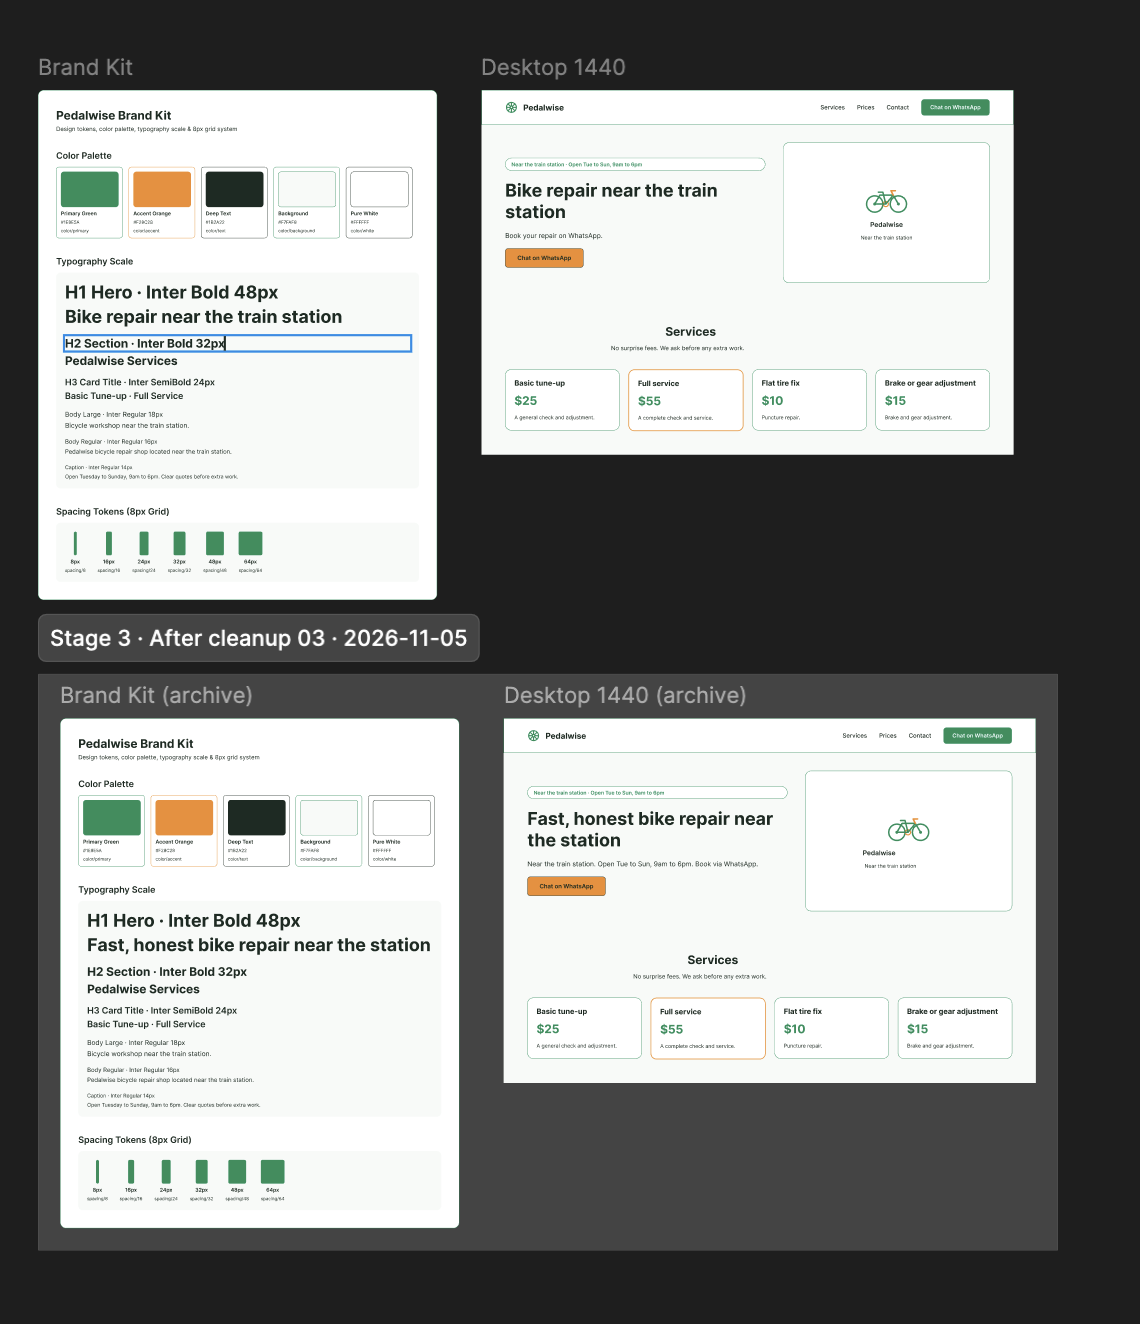
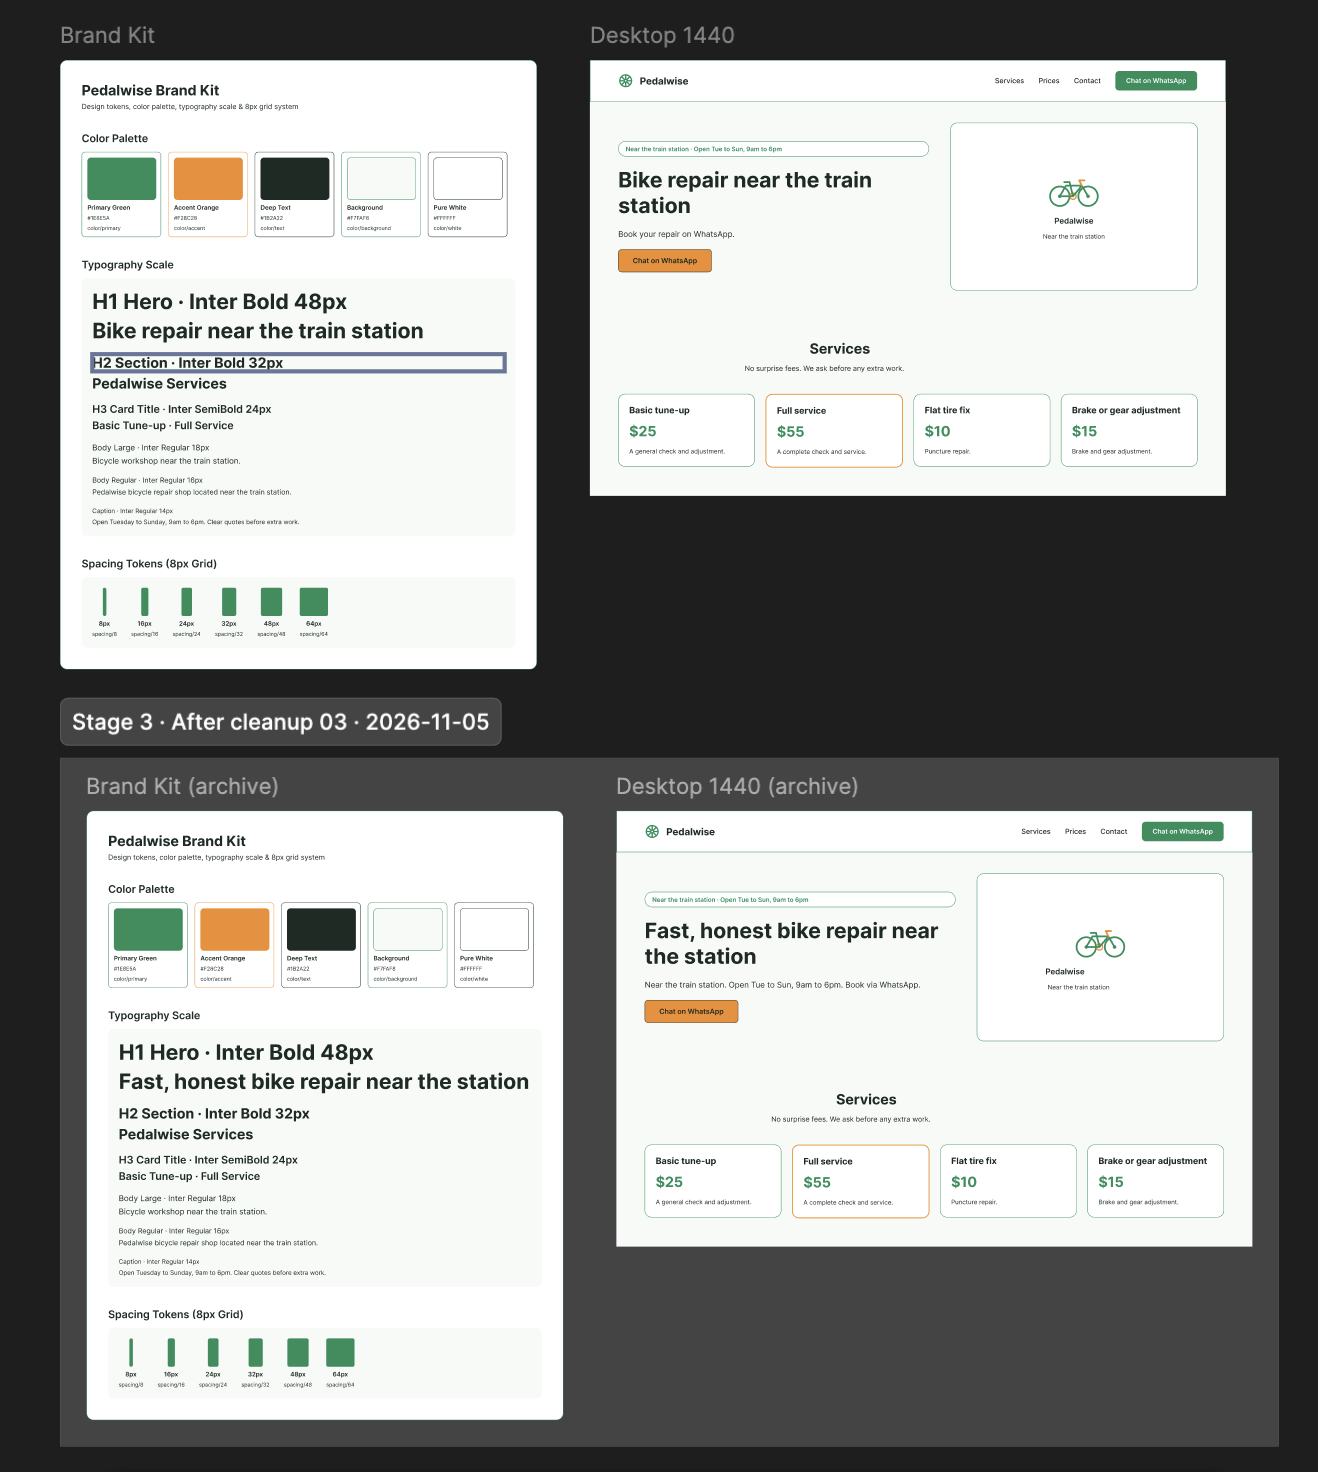
Replace overview screenshot with a cleaner capture
Claude-Session: https://claude.ai/code/session_01TfZp7RWdhg5TmbskFT1jtY

diff --git a/CHANGELOG.md b/CHANGELOG.md
@@ -4,7 +4,7 @@ One line per page, feature or fix. Newest first. Dates are 2026. The client is s
 
 ## Round 1 (in progress)
 
-- 2026-11-05 | **Manual edits (Claude browser extension)** | Hero headline changed to "Bike repair near the train station", hero subline to "Book your repair on WhatsApp.", placeholder text centered. The extension also renamed a frame by mistake; caught in the screenshot and fixed. Screenshot: `screens/round1-before-after-overview.png` (top: live frames, bottom: Stage 3 archive with the old headline; a text box in the Brand Kit is in edit mode, a clean export will replace this).
+- 2026-11-05 | **Manual edits (Claude browser extension)** | Hero headline changed to "Bike repair near the train station", hero subline to "Book your repair on WhatsApp.", placeholder text centered. The extension also renamed a frame by mistake; caught in the screenshot and fixed. Screenshot: `screens/round1-before-after-overview.png` (top: live frames, bottom: Stage 3 archive with the old headline; the H2 label in the Brand Kit shows a selection box; clean per-frame exports will be added).
 - 2026-11-05 | **Round 1 review sent to the client** (Slack, with a view link to the Figma file).
 - 2026-11-05 | **Run 03 cleanup** | Logo no longer clipped, service card tags removed, neutral card descriptions, services subtitle set to client-confirmed wording. Verified: frame sizes, logo, tags, descriptions. Not yet verified: Brand Kit text and subtitle. Log: `agy-logs/run-03-final-cleanup.md`
 - 2026-11-05 | **Run 02 revision** | Invented claims removed (guarantee, VAT, turnaround times), 32px nav gap, clipped swatch fixed, spacing tokens bound. New bug found: clipped logo. Log: `agy-logs/run-02-revision-remove-invented-claims.md`
